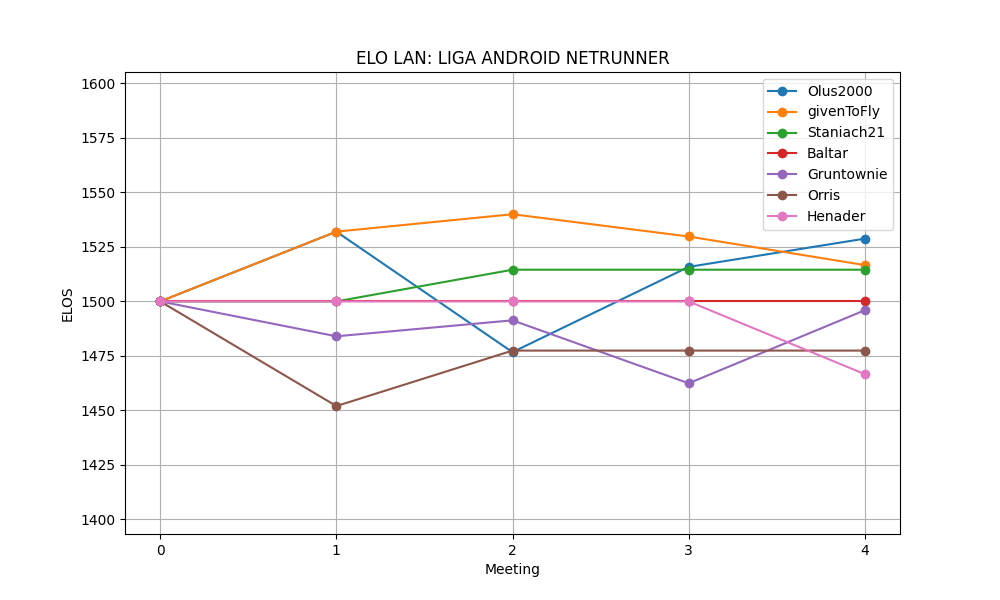
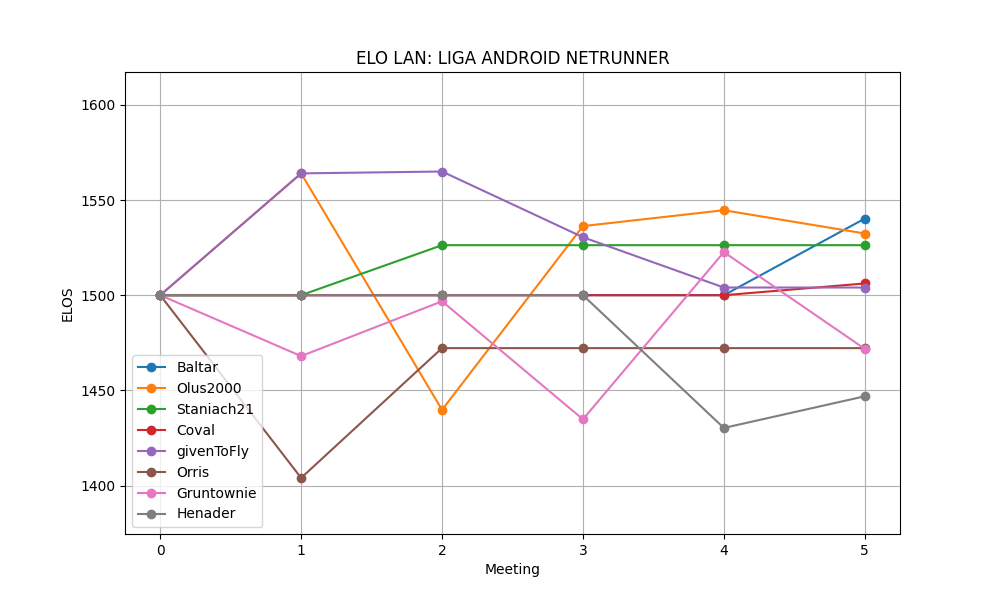
i suck at commiting

diff --git a/Rounds.py b/Rounds.py
@@ -1,3 +1,4 @@
+from asyncio import current_task
 from itertools import count
 from FileWriter import FileWriter
 from Copy_generator import *
@@ -6,7 +7,7 @@ from player import Player
 
 PlAYERS_PLAYING = []
 CURRENT_ROUND = 0
-k_factor = 32
+k_factor = 64
 
 def round_set_up(players_playing_in_round):
     global PlAYERS_PLAYING, CURRENT_ROUND
@@ -33,6 +34,8 @@ def update_elo():
 
 def round_summary():
     global CURRENT_ROUND
+    print("=============")
+    print(f"round : {CURRENT_ROUND}")
     PlAYERS_PLAYING.sort(key=lambda player: player.temp_rank, reverse=True)
     for player in PlAYERS_PLAYING:
         diff = round(player.temp_rank - player.rank)
@@ -40,7 +43,7 @@ def round_summary():
         player.to_string(newLine=False)
 
         player.reset_games()
-
+        print(f"{player.name} elo: {player.rank} change {diff}")
 
 
 
@@ -168,6 +171,7 @@ def calculate_games():
     Baltar = Player("Baltar")
     Olus2000 = Player("Olus2000")
     Henader = Player("Henader")
+    Coval = Player("Coval")
 
     # creating bye player
     BYE = Player("BYE")
@@ -237,10 +241,29 @@ def calculate_games():
     update_elo()
     round_summary()
 
+    # ---------------------------------------------------------------------------------------
+    # ROUND 5
+
+    # ROUND 5 SET UP
+    round_set_up([ Gruntownie, Olus2000, Henader,Baltar,Coval])
+
+    ## GAMES
+
+    Baltar.round_outcome = [(Gruntownie, 0), (Gruntownie, 1), (Olus2000,1),(Coval,1),(Coval,0 )]
+    Gruntownie.round_outcome = [(Baltar, 1), (Baltar, 0),(Coval,0),(Olus2000,1),(Olus2000,0),(Henader,1),(Henader,0) ]
+    Olus2000.round_outcome = [(Coval, 1), (Baltar,0),(Gruntownie,0),(Gruntownie,1)]
+    Coval.round_outcome = [(Olus2000,0),(Gruntownie,1),(Baltar,0),(Baltar,1)]
+    Henader.round_outcome = [(Gruntownie,0),(Gruntownie,1)]
+
+
+    ## update elo.
+    update_elo()
+    round_summary()
+
 
     # ==============================================================================================================
     # FINAL PLAYER PRINT
-    # final_summary()
+    final_summary()
     round_data = {
         "rounds":CURRENT_ROUND,
         "games":round((sum(len(player.all_games) for player in Player.ALL_PLAYERS)/2)),

diff --git a/Generate_raport.py b/Generate_raport.py
@@ -75,8 +75,15 @@ def generate_rapport():
 
         played_with = set(game[0] for game in player.all_games)
         played_with = {item for item in played_with if item.name != "BYE"}
-        for player in played_with:
-            print(player.name)
+        print(f"player currently done is {player.name} he played with :")
+
+        for playerz in played_with:
+            print(playerz.name)
+
+        print(f"{player.name} games are ")
+        for game in player.all_games:
+            print(f"vs {game[0].name}score {game[1]}")
+
         for opponent in played_with:
             h2h_dict[opponent.name] = {
                 'wins': 0,

diff --git a/Graph_ELO.py b/Graph_ELO.py
@@ -3,7 +3,7 @@ import matplotlib.pyplot as plt
 from dulwich.walk import ALL_ORDERS
 from Rounds import calculate_games
 
-ALL_PLAYERS = calculate_games()
+ALL_PLAYERS = calculate_games()["players"]
 
 MAX_RANK =  max(ALL_PLAYERS, key=lambda player: player.rank).rank * 1.05 # i want to top be slighly under
 MIN_RANK = min (ALL_PLAYERS, key=lambda player: player.rank).rank * 0.95 # i want bottom to be slighty at top
